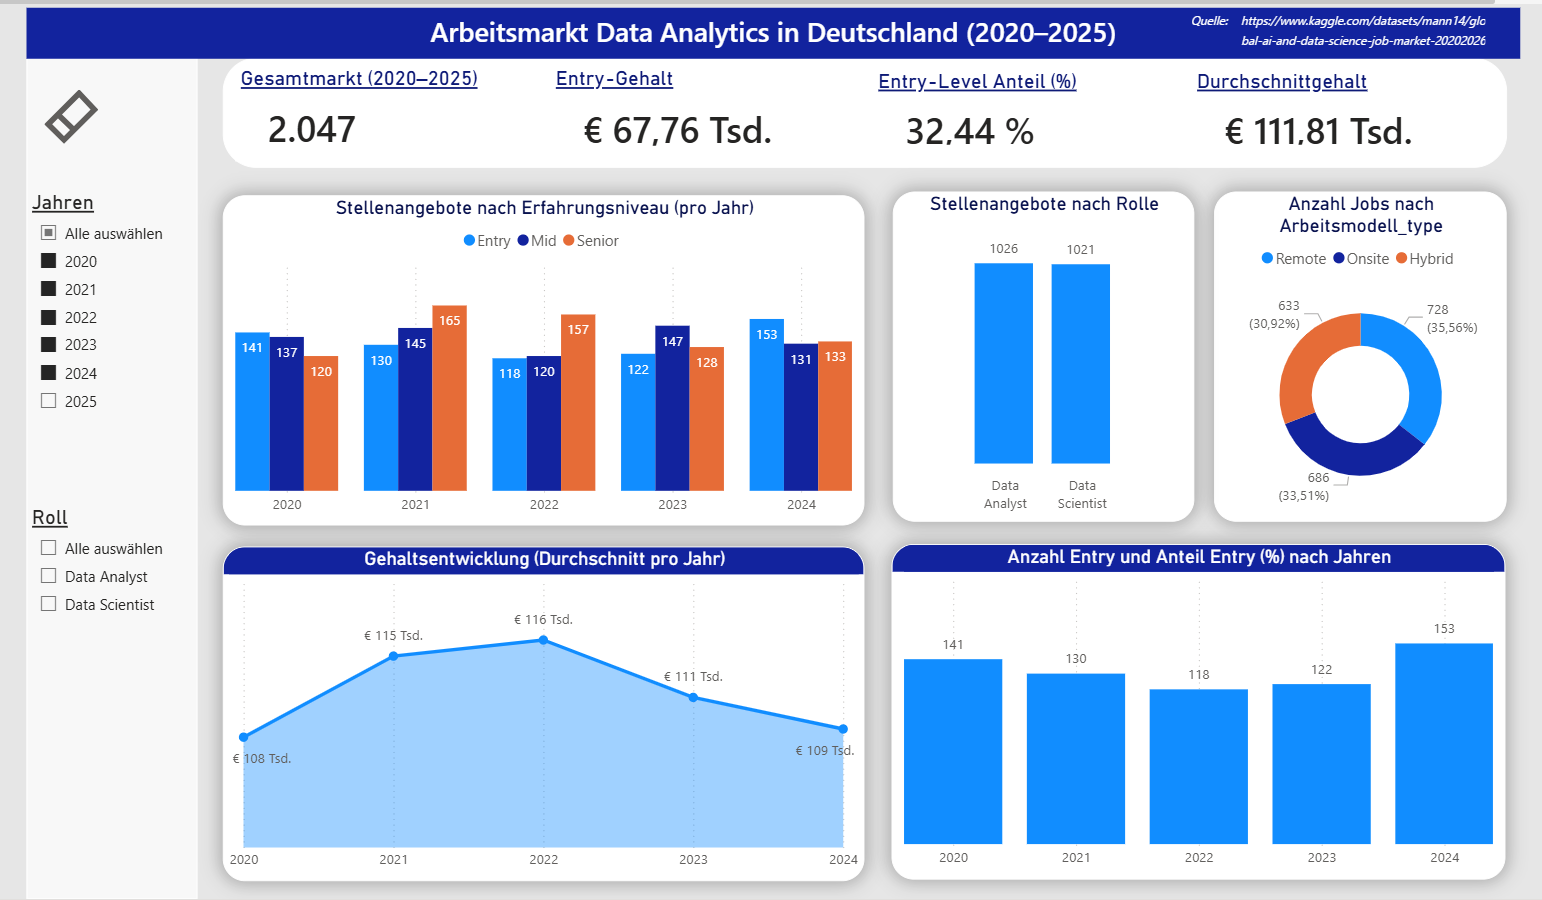
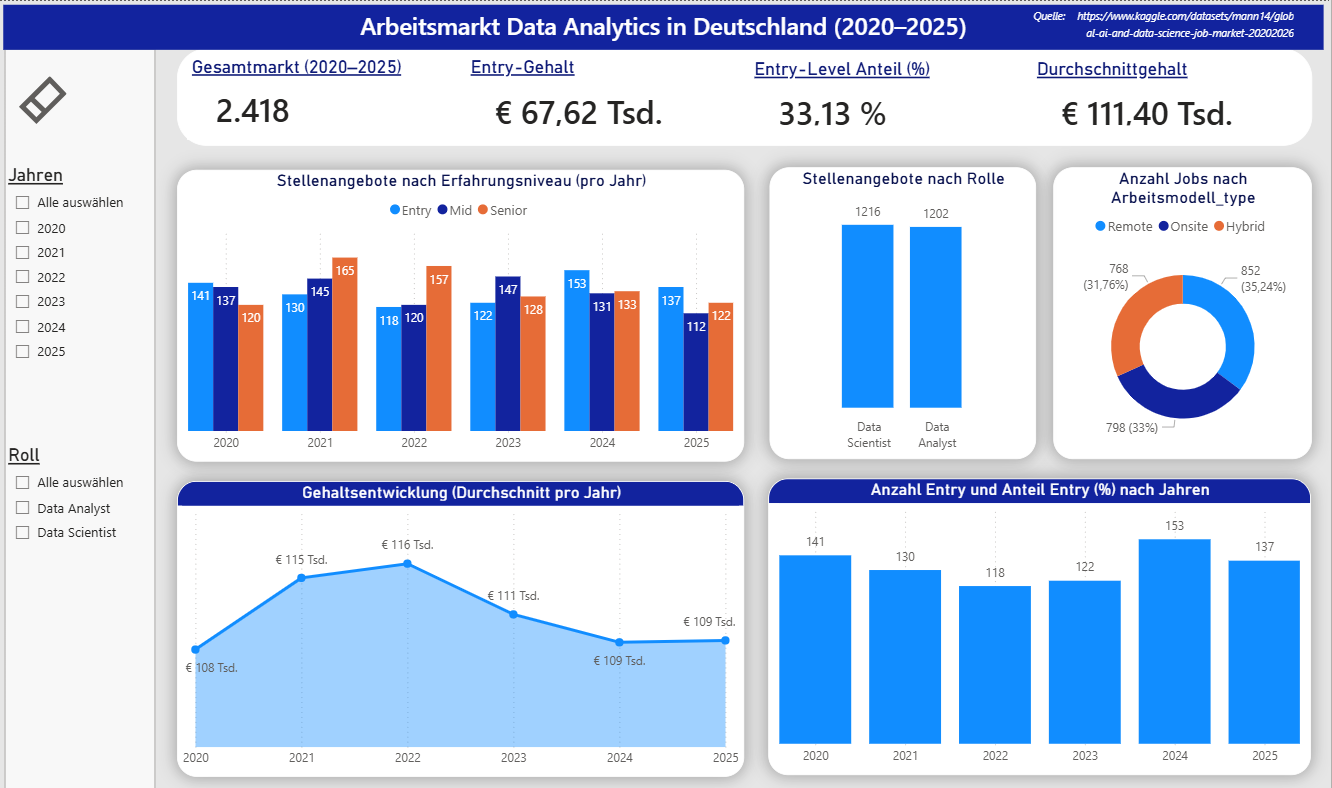
Fix truncated HTML and restore email link

diff --git a/arbeitsmarkt.html b/arbeitsmarkt.html
@@ -462,7 +462,7 @@
         </div>
         <div class="hero-meta-item">
           <span class="meta-label">Stellenangebote analysiert</span>
-          <span class="meta-value">2.047</span>
+          <span class="meta-value">2.418</span>
         </div>
       </div>
     </div>
@@ -491,7 +491,7 @@
       <div class="block" id="methodik">
         <div class="block-label"><h2>Datensatz & Methodik</h2></div>
         <p>
-          Der Datensatz stammt von Kaggle (Global AI and Data Science Job Market 2020–2026) 
+          Der Datensatz stammt von Kaggle (Global AI and Data Science Job Market 2020–2025) 
           und enthält Informationen zu Jobtiteln, Jobtypen, Unternehmensarten sowie Mindest- und 
           Höchstgehältern, aus denen das Durchschnittsgehalt berechnet wurde. Gefiltert wurde 
           ausschließlich auf Deutschland und die Jahre 2020 bis 2025.
@@ -541,7 +541,7 @@
           <img src="DA_Executive_Overview.png" alt="Executive Overview Dashboard" />
           <div class="screenshot-caption">
             <strong>Dashboard 1 — Executive Overview</strong>
-            <span>Gesamtmarktüberblick: KPIs, Stellenangebote nach Erfahrungsniveau, Gehaltsentwicklung und Arbeitsmodelle (2020–2024)</span>
+            <span>Gesamtmarktüberblick: KPIs, Stellenangebote nach Erfahrungsniveau, Gehaltsentwicklung und Arbeitsmodelle (2020–2025)</span>
           </div>
         </div>
 
@@ -626,7 +626,7 @@
         <h4>Kennzahlen</h4>
         <div class="stat-row">
           <span class="stat-label">Stellenangebote</span>
-          <span class="stat-value">2.047</span>
+          <span class="stat-value">2.418</span>
         </div>
         <div class="stat-row">
           <span class="stat-label">Zeitraum</span>
@@ -653,7 +653,7 @@
       <div class="sidebar-card">
         <h4>Datenquelle</h4>
         <p style="font-size:13px;line-height:1.6;color:var(--ink-light);">
-          Kaggle — Global AI and Data Science Job Market 2020–2026<br>
+          Kaggle — Global AI and Data Science Job Market 2020–2025<br>
           <span style="color:var(--ink-faint);font-size:12px;">Öffentlich verfügbarer Datensatz</span>
         </p>
       </div>

diff --git a/index.html b/index.html
@@ -698,10 +698,10 @@
     <section class="section" id="kontakt">
       <div class="section-label"><h2>Kontakt</h2></div>
       <div class="contact-grid">
-        <a href="/cdn-cgi/l/email-protection#761b17041f171a0315031b1f1b4e4236111b171f1a5815191b" class="contact-card">
+        <a href="mailto:marialucumim84@gmail.com" class="contact-card">
           <svg width="22" height="22" fill="none" stroke="currentColor" stroke-width="1.8" viewBox="0 0 24 24"><rect x="2" y="4" width="20" height="16" rx="2"/><path d="m22 7-8.97 5.7a1.94 1.94 0 0 1-2.06 0L2 7"/></svg>
           <span class="c-label">E-Mail</span>
-          <span class="c-value"><span class="__cf_email__" data-cfemail="93fef2e1faf2ffe6f0e6fefafeaba7d3f4fef2faffbdf0fcfe">[email&#160;protected]</span></span>
+          <span class="c-value">marialucumim84@gmail.com</span>
         </a>
         <a href="https://www.linkedin.com/in/TU-LINKEDIN" target="_blank" class="contact-card">
           <svg width="22" height="22" fill="none" stroke="currentColor" stroke-width="1.8" viewBox="0 0 24 24"><path d="M16 8a6 6 0 0 1 6 6v7h-4v-7a2 2 0 0 0-2-2 2 2 0 0 0-2 2v7h-4v-7a6 6 0 0 1 6-6z"/><rect x="2" y="9" width="4" height="12"/><circle cx="4" cy="4" r="2"/></svg>
@@ -710,4 +710,13 @@
         </a>
         <a href="https://github.com/marialucumim" target="_blank" class="contact-card">
           <svg width="22" height="22" fill="none" stroke="currentColor" stroke-width="1.8" viewBox="0 0 24 24"><path d="M9 19c-5 1.5-5-2.5-7-3m14 6v-3.87a3.37 3.37 0 0 0-.94-2.61c3.14-.35 6.44-1.54 6.44-7A5.44 5.44 0 0 0 20 4.77 5.07 5.07 0 0 0 19.91 1S18.73.65 16 2.48a13.38 13.38 0 0 0-7 0C6.27.65 5.09 1 5.09 1A5.07 5.07 0 0 0 5 4.77a5.44 5.44 0 0 0-1.5 3.78c0 5.42 3.3 6.61 6.44 7A3.37 3.37 0 0 0 9 18.13V22"/></svg>
-          <span class="c-lab
+          <span class="c-label">GitHub</span>
+          <span class="c-value">marialucumim</span>
+        </a>
+      </div>
+    </section>
+
+  </main>
+</div>
+</body>
+</html>
